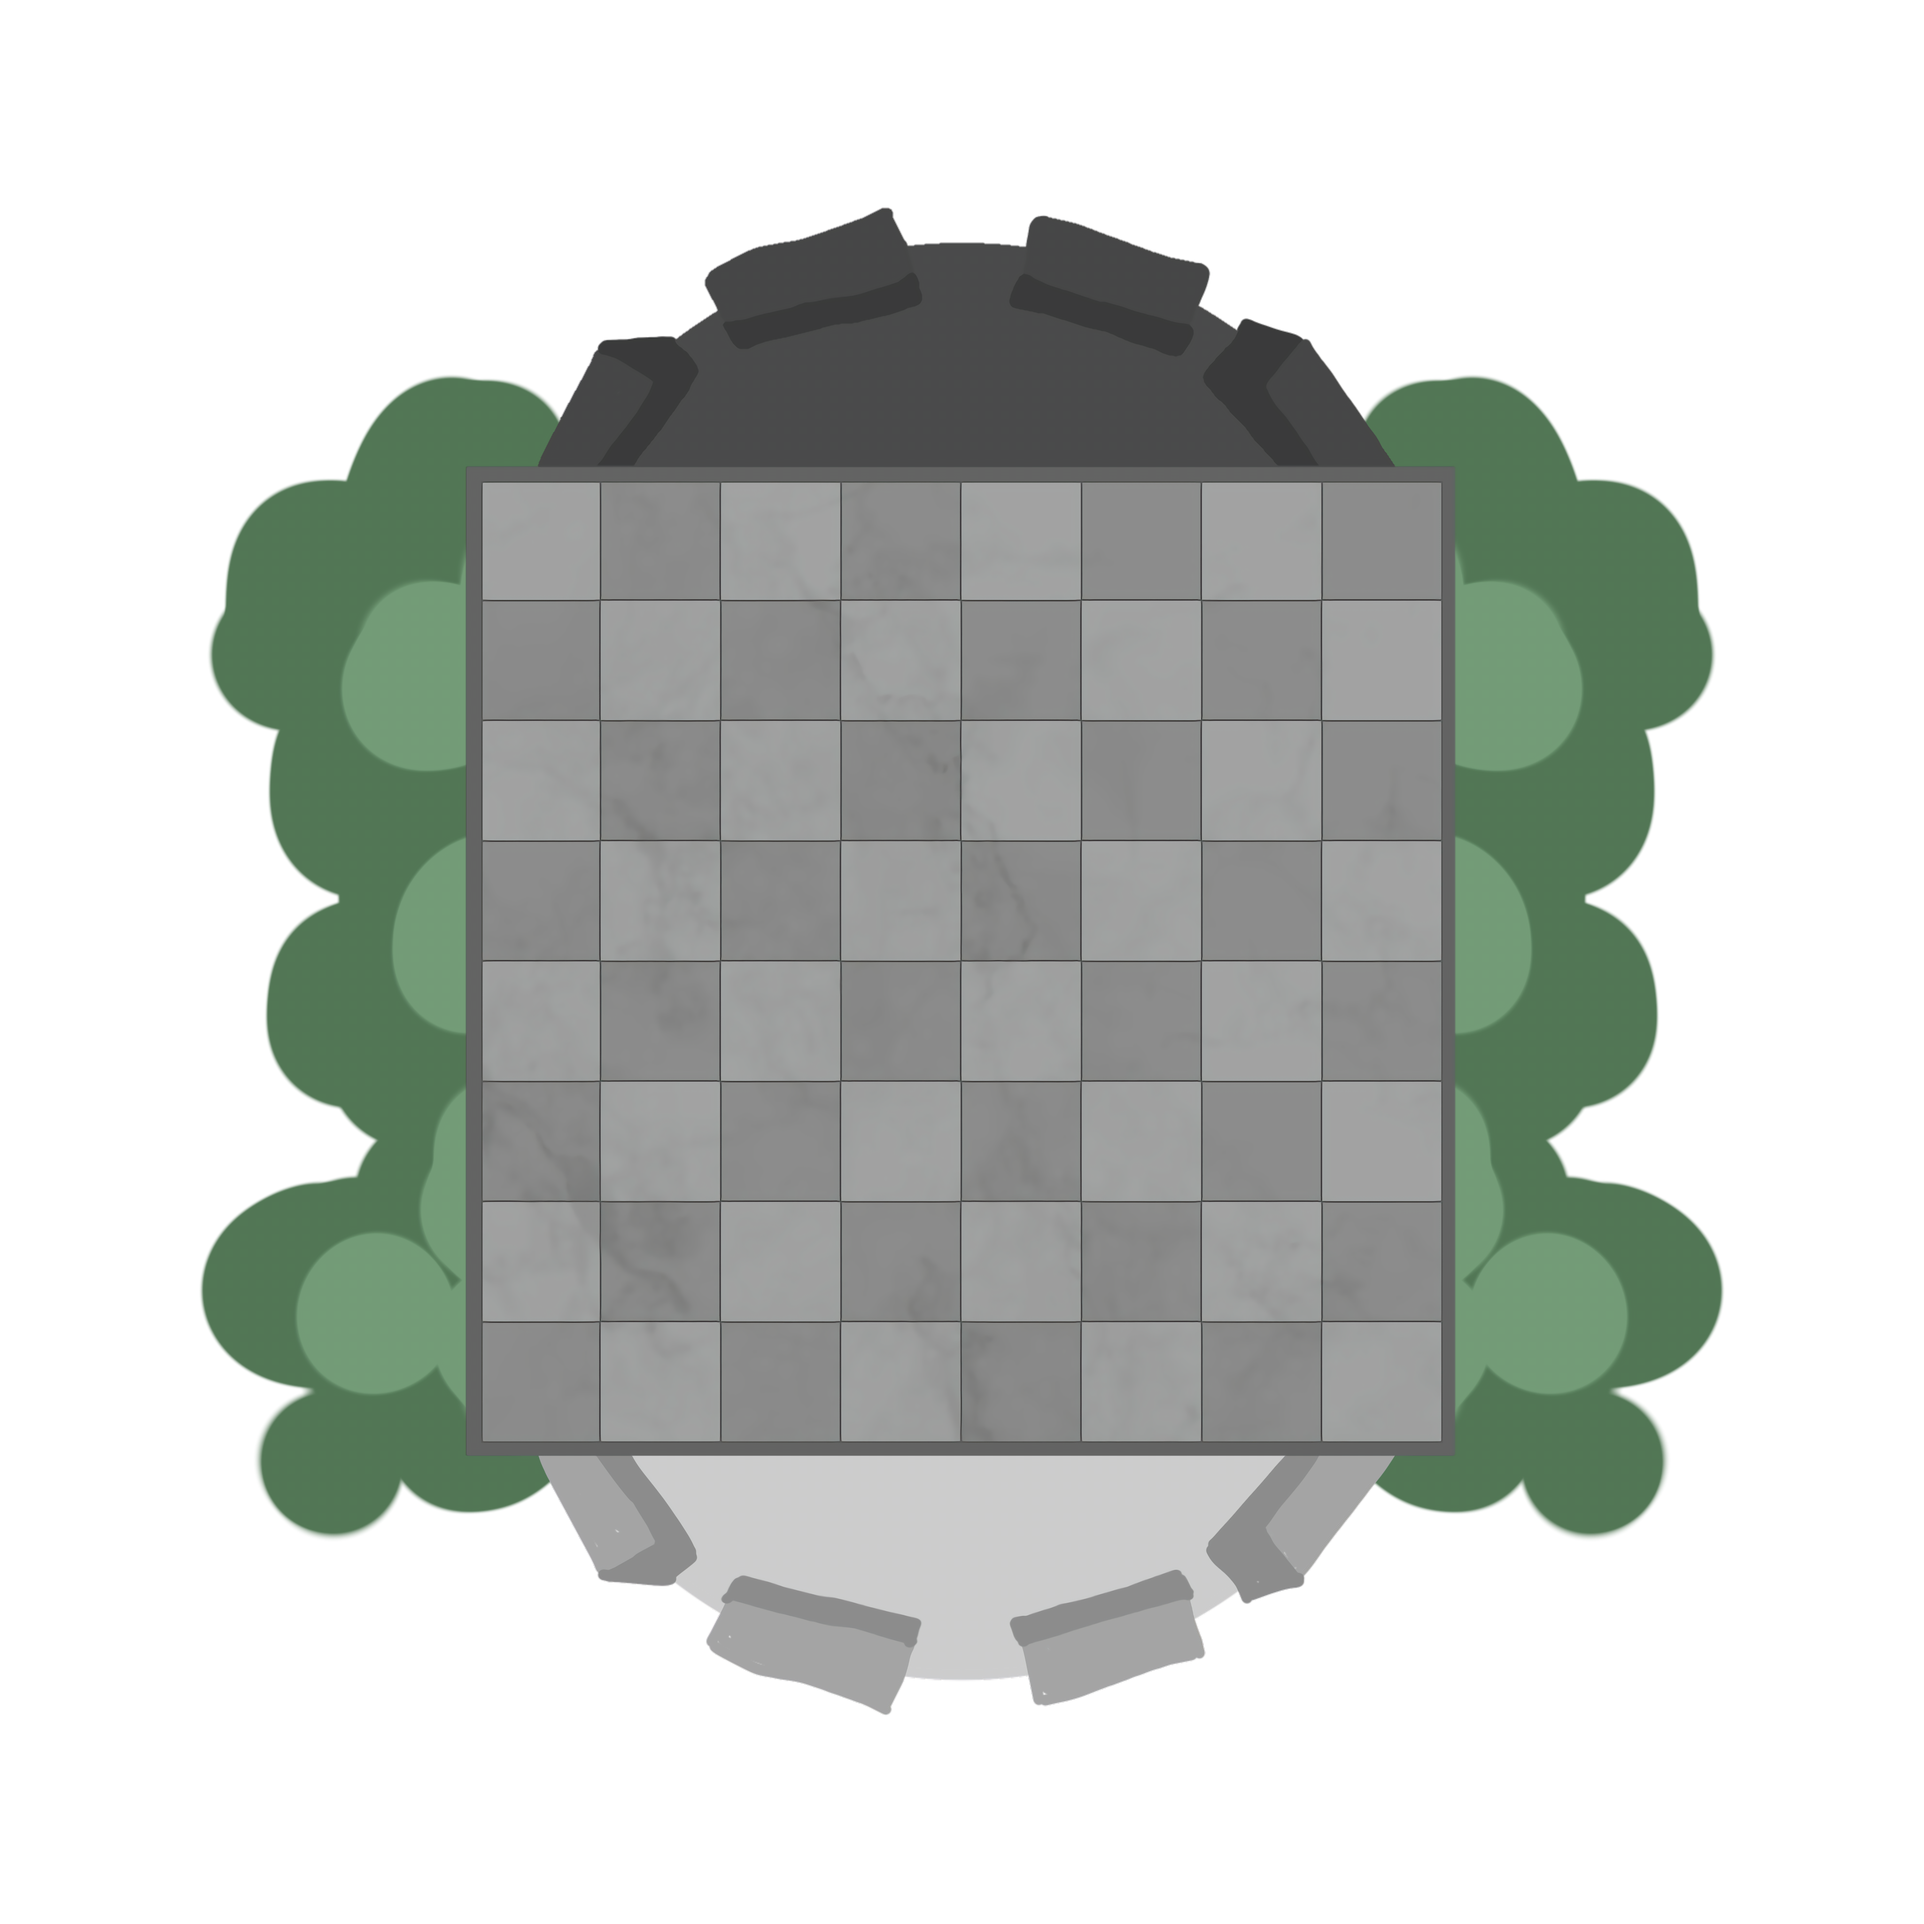
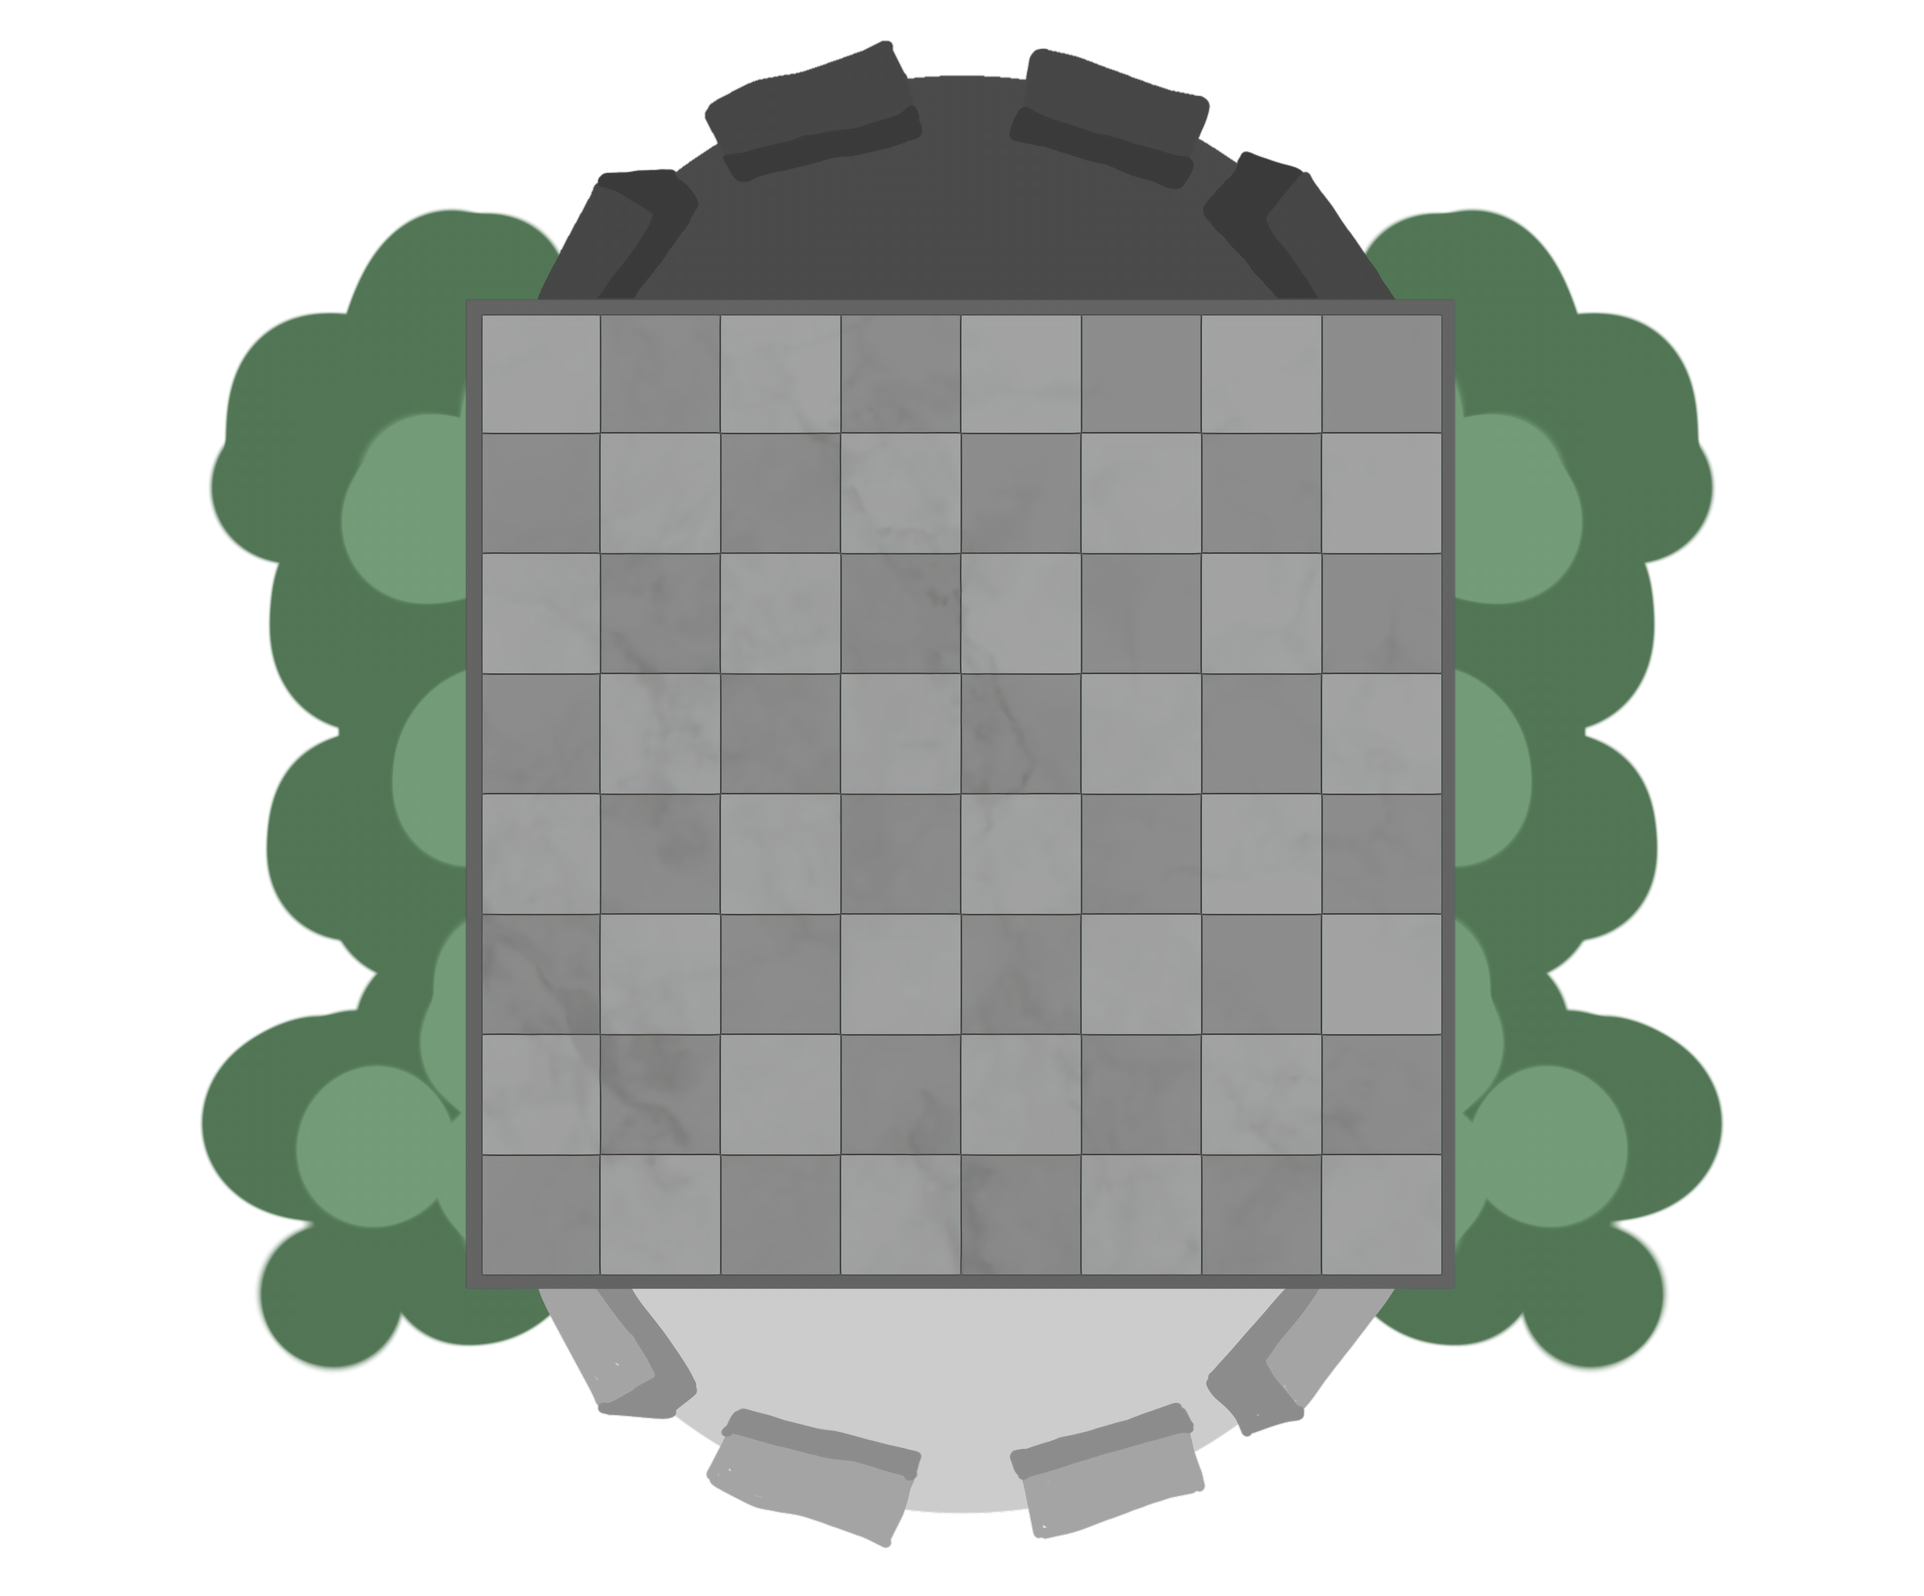
beginning game.html setup

diff --git a/app/templates/game.html b/app/templates/game.html
@@ -11,9 +11,39 @@ TBD
 <html>
 
 <head>
+  <title> CHRIVIA </title>
+
+  <!-- CUSTOM CSS -->
+  <link rel="stylesheet"
+    type="text/css"
+    href="/static/css/style.css">
+
+  <!-- BOOTSTRAP CSS -->
+  <link href="https://cdn.jsdelivr.net/npm/bootstrap@5.3.8/dist/css/bootstrap.min.css"
+    rel="stylesheet"
+    integrity="sha384-sRIl4kxILFvY47J16cr9ZwB07vP4J8+LH7qKQnuqkuIAvNWLzeN8tE5YBujZqJLB"
+    crossorigin="anonymous">
+
+  <!-- PAGE SPECIFIC CSS -->
+  <style>
+
+  </style>
 </head>
 
-<body>
+<body style="padding:0; margin:0">
+  <!-- BOARD -->
+  <div class="container">
+    <image src="/static/images/board.png" style="width:75%;height:auto;" class="board center">
+  </div>
+
+  <!-- BOOTSTRAP JS -->
+  <script src="https://cdn.jsdelivr.net/npm/bootstrap@5.3.8/dist/js/bootstrap.bundle.min.js"
+    integrity="sha384-FKyoEForCGlyvwx9Hj09JcYn3nv7wiPVlz7YYwJrWVcXK/BmnVDxM+D2scQbITxI"
+    crossorigin="anonymous"> </script>
+
+  <!-- PAGE-SPECIFIC JS -->
+  <script>
+  </script>
 </body>
 
 </html>

diff --git a/app/templates/menu.html b/app/templates/menu.html
@@ -11,7 +11,7 @@ TBD
 <html>
 
 <head>
-  <title> </title>
+  <title> MENU </title>
 
   <!-- CUSTOM CSS -->
   <link rel="stylesheet"
